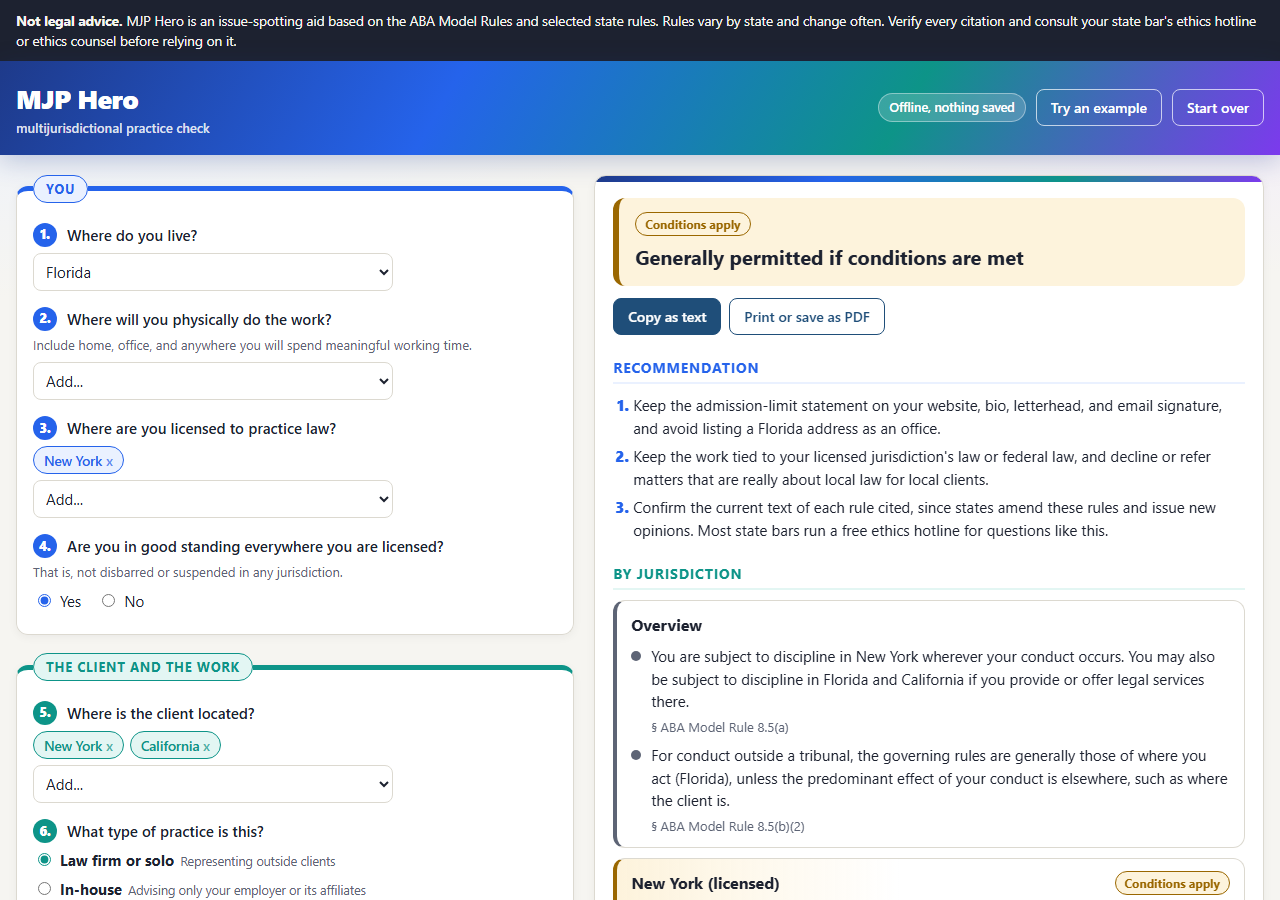
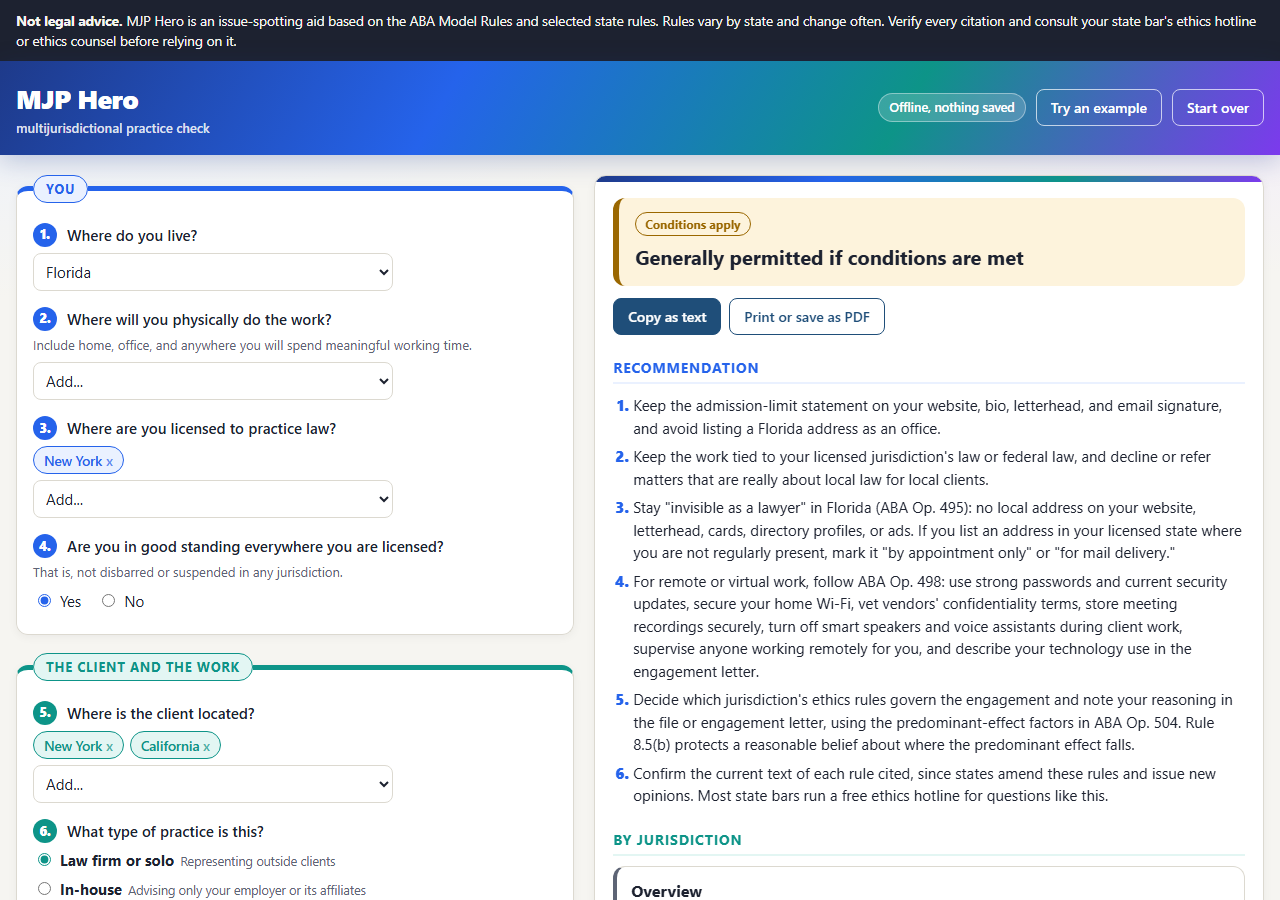
Incorporate ABA and state ethics opinions on multijurisdictional practice
ABA: fuller Op. 495 analysis ("invisible as a lawyer", "by appointment
only" address tip), Op. 498 remote-work safeguards, Op. 504 predominant-
effect factors for Rule 8.5(b), all with source links and matching
recommendations.

States: remote-work guidance for 17 more states (27 total). Missouri
Informal Ops. 2024-02 and 2024-03 reject Op. 495, so remote work from
Missouri and remote in-house work for Missouri companies are flagged
as likely problems. Minnesota and Arizona client-notice requirements,
Ohio disclosure rule, Colorado firm caveat, Rhode Island in-person
limit, Washington resident-agent rule, and licensing-state guidance
(Illinois, Pennsylvania, Hawaii, Washington) on practicing their law
from elsewhere.

Changed region(s): [[0.4688, 0.56, 0.9688, 1.0]]

diff --git a/js/authorities.js b/js/authorities.js
@@ -78,15 +78,23 @@
     },
     "Op 495": {
       cite: "ABA Formal Op. 495 (2020), Lawyers Working Remotely",
-      text: "A lawyer may practice the law of a jurisdiction where the lawyer is licensed while physically located in a jurisdiction where the lawyer is not licensed, if the local jurisdiction has not said otherwise and the lawyer does not hold out as admitted there, advertise or offer services there, or establish a local office."
+      text: "A lawyer may practice the law the lawyer's licensing jurisdiction authorizes (including temporary practice and other law permitted by Rule 5.5(c) and (d)) while physically in a jurisdiction where the lawyer is not licensed, if that jurisdiction has not determined otherwise and the lawyer is \"for all intents and purposes invisible as a lawyer\" there: no local address on websites, letterhead, business cards, or advertising; no holding out as locally admitted; and no legal services for matters subject to the local jurisdiction. The opinion suggests listing the licensing-jurisdiction address with a note such as \"by appointment only\" or \"for mail delivery.\"",
+      url: "https://www.lawnext.com/wp-content/uploads/2021/09/aba-formal-opinion-495.pdf"
     },
     "Op 498": {
       cite: "ABA Formal Op. 498 (2021), Virtual Practice",
-      text: "Virtual practice is permitted but carries duties of competence, confidentiality, and supervision, and does not relax the jurisdictional limits of Rule 5.5."
+      text: "Virtual practice is permitted but does not relax Rule 5.5. Lawyers must keep up with technology risks (Rule 1.1), protect confidential information (Rule 1.6) with strong passwords, security updates, secure Wi-Fi, vetted vendors, secure storage of recordings, and smart speakers or assistants disabled during client work, and supervise lawyers and staff working remotely (Rules 5.1, 5.3). It suggests discussing technology use in the engagement letter.",
+      url: "https://www.hklaw.com/en/insights/publications/2021/03/aba-offers-general-guidance-for-virtual-law-practices"
+    },
+    "Op 504": {
+      cite: "ABA Formal Op. 504 (2023), Choice of Rule",
+      text: "Explains Rule 8.5(b). Before a tribunal, the tribunal's rules apply. Otherwise, look to where the conduct's predominant effect is, considering the client's location, where the transaction occurs, which law governs, the lawyer's principal office and admission, where other parties are, and which jurisdiction has the greatest interest. Rule 8.5(b)'s safe harbor protects a lawyer who reasonably relies on one jurisdiction as the predominant-effect jurisdiction.",
+      url: "https://lalegalethics.org/aba-issues-opinion-on-model-rule-8-5-choice-of-law/"
     },
     "Op 88-356": {
       cite: "ABA Formal Op. 88-356 (1988), Temporary Lawyers",
-      text: "Lawyers placed with firms or clients through a placement agency raise conflict-of-interest, confidentiality, and fee-arrangement questions. Whether the lawyer is associated with the firm or client depends on a functional analysis of the relationship."
+      text: "Lawyers placed with firms or clients through a placement agency raise conflict-of-interest, confidentiality, and fee-arrangement questions. Whether the lawyer is associated with the firm or client depends on a functional analysis of the relationship.",
+      url: "https://www.americanbar.org/products/ecd/chapter/219921/"
     },
     "Sperry": {
       cite: "Sperry v. Florida ex rel. Florida Bar, 373 U.S. 379 (1963)",
@@ -105,12 +113,21 @@
    *   remote    guidance on remote work from within the state for out-of-state matters
    *             (level: "caution" when the guidance is narrower than ABA Op. 495)
    *   residency requirements on licensed lawyers who live elsewhere
+   *   away     the state's own guidance that its licensed lawyers may practice its law from elsewhere
+   *   virtualInHouse  authority requiring a local license for in-house lawyers who serve a company
+   *            in this state remotely from another state
+   *   clientNotice    true if the state requires telling clients the lawyer is not licensed there
+   *
+   * remote.level: "ok" (default), "caution" (narrower than Op. 495), or "risk" (state says remote
+   * practice from the state is unauthorized).
    *   notes     extra warnings (strings)
    *
    * v(...) marks a citation confirmed against the source URL on the date in CHECKED.
    * u(...) marks one not yet confirmed; the UI shows a "verify" tag on these.
    */
   var CHECKED = "2026-09-26";
+  // Mass. Board of Bar Overseers survey of remote-practice rules in New England states (updated Mar. 2024).
+  var MASS_BBO = "https://bbopublic.massbbo.org/web/f/(UpdatedMarch%202024)%20What%20you%20should%20know%20about%20Cross%20Border%20Remote%20Practice.pdf";
   function v(cite, text, source, extra) {
     return Object.assign({ cite: cite, text: text || "", verified: true, checked: CHECKED, url: source || "" }, extra || {});
   }
@@ -153,6 +170,7 @@
     },
     IL: {
       rule: v("Ill. R. Prof'l Conduct 5.5", "", "https://www.isba.org/ethics/irpc/rule55"),
+      away: v("ISBA Advisory Op. 22-03 (2022)", "Illinois-licensed lawyers may practice Illinois law remotely from a jurisdiction where they are not licensed, if that jurisdiction does not prohibit it.", "https://www.isba.org/sites/default/files/ethicsopinions/Advisory%20Opinion%2022-03.pdf"),
       inHouse: v("Ill. S. Ct. R. 716 (amended eff. Jan. 1, 2026)", "Limited license for house counsel employed exclusively by a single entity and its affiliates.", "https://www.ilbaradmissions.org/appinfo.action?id=4"),
       phv: v("Ill. S. Ct. R. 707", "An out-of-state attorney may appear in a particular Illinois proceeding after an Illinois attorney files an appearance and a verified statement is filed with the ARDC.", "https://registration.iardc.org/attyreg/Registration/regdept/popup_rule707overview.aspx")
     },
@@ -169,6 +187,7 @@
     },
     PA: {
       rule: u("Pa. R. Prof'l Conduct 5.5"),
+      away: v("Pa. Bar Ass'n & Phila. Bar Ass'n Joint Formal Op. 2021-100", "Pennsylvania-licensed lawyers may practice Pennsylvania law remotely from another jurisdiction if they take appropriate steps, including not holding out a local office, and the other jurisdiction does not prohibit it.", "https://www.lawnext.com/2021/03/the-ethics-of-working-from-outside-your-state-pa-bars-adopt-aba-rule.html"),
       phv: v("Pa. Bar Admission R. 301", "Pro hac vice requires a Pennsylvania attorney who agrees to act as attorney of record.", "https://www.pabarexam.org/bar_admission_rules/301.htm"),
       inHouse: v("Pa. Bar Admission R. 302", "Limited In-House Corporate Counsel License required for in-house lawyers working in Pennsylvania on more than a temporary basis or with an office or systematic presence there.", "https://www.pabarexam.org/bar_admission_rules/302.htm")
     },
@@ -182,6 +201,65 @@
       phv: v("Va. Sup. Ct. R. 1A:4", "Out-of-state lawyers may apply to appear pro hac vice in a particular case before a Virginia court, board, or agency.", "https://www.vacourts.gov/static/courts/scv/forms/pro_hac_vice_rule_inst.pdf"),
       inHouse: v("Va. Sup. Ct. R. 1A:5", "Corporate counsel must be a Virginia State Bar member, hold a Corporate Counsel Certificate, or register under Part II of the rule.", "https://barexam.virginia.gov/vcc-rule1A-5"),
       remote: v("Va. Legal Ethics Op. 1896 (2021)", "A lawyer not licensed in Virginia may work from Virginia, even continuously, if the practice is limited to federal law or the law of the lawyer's licensing jurisdiction, with disclosure of the lack of a Virginia license where needed.", "https://www.vacourts.gov/static/courts/scv/amendments/leo_1896.pdf")
+    },
+    // Jurisdictions below have remote-work guidance only; the rest of their rules fall back to the ABA baseline.
+    MO: {
+      inHouse: v("Mo. S. Ct. R. 8.105", "Limited license for lawyers not admitted in Missouri who serve their employer or its affiliates.", "https://mo-legal-ethics.org/informal-opinion/2024-02/"),
+      remote: v("Mo. Informal Advisory Op. 2024-03 (2024)", "A lawyer licensed elsewhere who lives in Missouri and works from a Missouri home office for an out-of-state firm is establishing a systematic and continuous presence and must seek Missouri admission.", "https://mo-legal-ethics.org/informal-opinion/2024-03/", { level: "risk" }),
+      virtualInHouse: v("Mo. Informal Advisory Op. 2024-02 (2024)", "A lawyer licensed elsewhere who works virtually from another state for a corporation located in Missouri must seek Missouri admission (for example, a Rule 8.105 limited license), because presence can be systematic and continuous without being physically in Missouri.", "https://mo-legal-ethics.org/informal-opinion/2024-02/")
+    },
+    CO: {
+      remote: v("Colo. RPC 5.5, cmt. [1] (amended Feb. 2024); C.R.C.P. 205.1", "Lawyers physically in Colorado who provide services under another jurisdiction's authority do not violate Rule 5.5 if they do not solicit or accept clients in Colorado for services performed in Colorado and do not hold out as authorized in Colorado. Colorado regulators caution that working for a Colorado law firm with a Colorado office likely requires a Colorado license unless the practice is exclusively federal or tribal law.", "https://cl.cobar.org/departments/practicing-from-a-remote-jurisdiction/")
+    },
+    OH: {
+      remote: v("Ohio Prof. Cond. R. 5.5(d)(4) (eff. Sept. 1, 2021)", "Lawyers admitted elsewhere may practice their licensing jurisdiction's law remotely from Ohio if they do not solicit Ohio clients, appear in Ohio courts, or hold out as Ohio-admitted. If any Ohio location appears on letterhead, cards, websites, advertising, fee agreements, or signage, they must affirmatively state they are not admitted in Ohio.", "https://www.oblic.com/resources/oblic-news/09/07/2021/rule-5-5-amendments-allow-remote-practice/")
+    },
+    NC: {
+      remote: v("N.C. RPC 5.5; N.C. State Bar, \"Home is Where the Heart Is\" (2021)", "Lawyers licensed elsewhere may work remotely from North Carolina for their own jurisdiction's clients if they do not suggest they are licensed in North Carolina and protect client confidentiality.", "https://www.ncbar.gov/for-lawyers/ethics/ethics-articles/home-is-where-the-heart-is/")
+    },
+    MN: {
+      remote: v("Minn. RPC 5.5(d)", "Lawyers admitted elsewhere may provide services in Minnesota that exclusively involve federal law, tribal law, or the law of a jurisdiction where they are licensed, but must advise each client that they are not licensed in Minnesota.", "https://www.revisor.mn.gov/court_rules/pr/subtype/cond/id/5.5/"),
+      clientNotice: true
+    },
+    AZ: {
+      remote: u("Ariz. ER 5.5(d)", "Lawyers admitted elsewhere may provide services in Arizona that exclusively involve federal law, another jurisdiction's law, or tribal law, but must advise clients they are not admitted in Arizona and obtain informed consent."),
+      clientNotice: true
+    },
+    CT: {
+      remote: v("Conn. RPC 5.5(f); Conn. Practice Book § 2-44A(c) (eff. Jan. 1, 2023)", "Remote practice from Connecticut that is authorized by a jurisdiction where the lawyer is admitted is not the practice of law in Connecticut. It does not allow holding out as authorized in Connecticut or serving Connecticut clients.", "https://www.jud.ct.gov/lawjournal/Docs/Misc/2022/29/pblj_8402.pdf")
+    },
+    NH: {
+      remote: v("N.H. RPC 5.5(d) & Ethics Committee cmt. 3", "Lawyers licensed elsewhere who do not practice New Hampshire law need not obtain a New Hampshire license merely because they are physically in New Hampshire, if they do not hold out as admitted there.", "https://www.nhbar.org/working-remotely-under-nh-rule-5-5/")
+    },
+    VT: {
+      remote: v("Vt. RPC 5.5, cmt. [22]", "Vermont added a comment expressly adopting ABA Op. 495 for remote practice from Vermont.", MASS_BBO)
+    },
+    RI: {
+      remote: v("R.I. RPC 5.5, cmt. [4]", "Lawyers not licensed in Rhode Island may work from a Rhode Island home under conditions, but may not hold in-person meetings in Rhode Island with clients or third parties unless another exception applies.", MASS_BBO)
+    },
+    ME: {
+      remote: v("Me. Prof. Ethics Comm'n Op. 189 (2005)", "A lawyer who lives in Maine and works from home for an out-of-state firm and out-of-state clients, without a Maine office or holding out, is not engaged in unauthorized practice.", MASS_BBO)
+    },
+    UT: {
+      remote: v("Utah Ethics Advisory Op. 19-03 (2019)", "An out-of-state lawyer may represent clients from the licensing state from a private home in Utah, but must not establish a public office in Utah or solicit Utah business.", "https://www.utahbar.org/ethics-opinions/19-03/")
+    },
+    SC: {
+      remote: v("S.C. RPC 5.5, cmt. [4] (amended Mar. 15, 2023)", "Remote work in South Carolina does not establish an office or systematic presence if the lawyer's services are limited to those authorized by a jurisdiction where the lawyer is admitted and the lawyer does not state, imply, or hold out that the lawyer is a South Carolina lawyer.", "https://www.sccourts.org/opinions-orders/court-orders/order-detail/?order=2023-03-15-02")
+    },
+    HI: {
+      remote: v("Haw. RPC 5.5, cmt. [3] (eff. July 1, 2022)", "Lawyers licensed elsewhere may remotely practice that jurisdiction's law while in Hawaii if they do not hold out as licensed in Hawaii, advertise a Hawaii office, provide or offer Hawaii legal services, or do anything connected to practice in Hawaii beyond being physically present.", "https://www.courts.state.hi.us/wp-content/uploads/2022/03/2022_hrpc5.5am_ada.pdf"),
+      away: v("Haw. RPC 5.5, cmt. [3]", "Hawaii-licensed lawyers may practice remotely from outside Hawaii if the jurisdiction where they are physically present does not prohibit it.", "https://www.courts.state.hi.us/wp-content/uploads/2022/03/2022_hrpc5.5am_ada.pdf")
+    },
+    MI: {
+      remote: v("Mich. Ethics Op. RI-382 (2021)", "An out-of-state lawyer physically located in Michigan but practicing exclusively the law of a jurisdiction where the lawyer is licensed does not violate Michigan Rule 5.5.", "https://www.michbar.org/opinions/ethics/numbered_opinions/RI-382")
+    },
+    WI: {
+      remote: v("Wis. Formal Ethics Op. EF-21-02 (2021)", "Wisconsin's rule does not prohibit an out-of-state lawyer from representing clients of the licensing state from a private location in Wisconsin.", "https://www.wisbar.org/NewsPublications/WisconsinLawyer/Pages/Article.aspx?ArticleID=28330")
+    },
+    WA: {
+      remote: v("WSBA Advisory Op. 201601 (2016, amended 2022)", "Out-of-state lawyers may generally practice remotely from Washington if they limit their work to their licensing jurisdictions and do not hold out as available to practice in Washington.", "https://wsba.org/docs/default-source/legal-community/committees/committee-on-professional-ethics/201601-regarding-updated-opinion-on-remote-and-virtual-law-practice-.pdf?sfvrsn=180113f1_4"),
+      residency: v("WSBA Advisory Op. 201601 (2016, amended 2022)", "Washington does not require a physical office, but an active Washington lawyer who lives outside Washington must file the name and street address of a resident agent in Washington with the WSBA.", "https://wsba.org/docs/default-source/legal-community/committees/committee-on-professional-ethics/201601-regarding-updated-opinion-on-remote-and-virtual-law-practice-.pdf?sfvrsn=180113f1_4"),
+      away: v("WSBA Advisory Op. 201601 (2016, amended 2022)", "Washington-licensed lawyers may practice from a home office in another state, but should confirm their presence there is not unauthorized practice under that state's rules.", "https://wsba.org/docs/default-source/legal-community/committees/committee-on-professional-ethics/201601-regarding-updated-opinion-on-remote-and-virtual-law-practice-.pdf?sfvrsn=180113f1_4")
     }
   };
 

diff --git a/js/engine.js b/js/engine.js
@@ -40,7 +40,7 @@
     return out;
   }
 
-  function aba(key) { return { cite: A.ABA[key].cite, text: A.ABA[key].text, source: "aba" }; }
+  function aba(key) { return { cite: A.ABA[key].cite, text: A.ABA[key].text, url: A.ABA[key].url, source: "aba" }; }
   function st(code, field) {
     var s = A.STATES[code];
     if (!s || !s[field]) return null;
@@ -105,7 +105,7 @@
     if (inp.proceeding === "court" && inp.proceedingIn) {
       ov.push(f("info", "Conduct connected with the court matter is generally governed by the rules of the jurisdiction where the tribunal sits (" + J.nameOf(inp.proceedingIn) + ").", cites(aba("8.5(b)(1)"))));
     } else if (usPhys.length) {
-      ov.push(f("info", "For conduct outside a tribunal, the governing rules are generally those of where you act (" + list(usPhys) + "), unless the predominant effect of your conduct is elsewhere, such as where the client is.", cites(aba("8.5(b)(2)"))));
+      ov.push(f("info", "For conduct outside a tribunal, the governing rules are generally those of where you act (" + list(usPhys) + "), unless the predominant effect of your conduct is elsewhere. ABA Op. 504 lists factors for finding the predominant effect: where the client is, where the transaction occurs, which law governs, your principal office and admissions, where other parties are, and which jurisdiction has the greatest interest.", cites(aba("8.5(b)(2)"), aba("Op 504"))));
     }
     var foreignLaw = lawStates.filter(function (c) { return !isLic(c); });
     if (foreignLaw.length) {
@@ -134,6 +134,11 @@
       var touched = usPhys.indexOf(code) >= 0 || clients.indexOf(code) >= 0 || law.indexOf(code) >= 0 ||
         inp.proceedingIn === code;
       if (touched) fs.push(f("ok", "You are licensed here, so Rule 5.5 does not limit your practice in " + J.nameOf(code) + ".", []));
+      var away = st(code, "away");
+      var outside = usPhys.filter(function (c) { return !isLic(c); }).concat(phys.indexOf("FOREIGN") >= 0 ? ["FOREIGN"] : []);
+      if (away && outside.length) {
+        fs.push(f("ok", "On working from " + list(outside) + ", " + J.nameOf(code) + "'s own guidance agrees: " + away.text, cites(away)));
+      }
       var res = st(code, "residency");
       if (res && inp.residence && inp.residence !== code) {
         fs.push(f("caution", "You are licensed in " + J.nameOf(code) + " but live elsewhere. " + res.text, cites(res)));
@@ -164,7 +169,7 @@
       if (rule) {
         fs.push(f("info", name + "'s adopted rule governs here, not the Model Rule." + (rule.text ? " " + rule.text : ""), cites(rule, st(code, "upl"))));
       } else {
-        fs.push(f("info", "This tool has no " + name + "-specific data yet. " + name + "'s adopted version of Rule 5.5 and its court rules may differ from the ABA Model Rule used below.", cites(aba("5.5(a)"))));
+        fs.push(f("info", (A.STATES[code] ? "This tool covers " + name + "'s remote-work and related guidance but not its full rule set. " : "This tool has no " + name + "-specific data yet. ") + name + "'s adopted version of Rule 5.5 and its court rules may differ from the ABA Model Rule used below.", cites(aba("5.5(a)"))));
       }
 
       // Holding out
@@ -200,12 +205,19 @@
         } else if (!isClient && !lawHere && !held) {
           var remote = st(code, "remote");
           var remoteNarrow = remote && remote.level === "caution";
+          if (remote && remote.level === "risk") {
+            fs.push(f("risk", name + " has rejected the ABA Op. 495 approach. Working from " + name + " on an ongoing basis, even only on your licensed jurisdiction's matters, requires " + name + " admission unless another exception applies. " + remote.text,
+              cites(remote, aba("Op 495"), aba("5.5(b)(1)"))));
+          } else
           fs.push(f(remote && !remoteNarrow ? "ok" : "caution",
             "Working remotely from " + name + " on matters for your licensed jurisdiction, with no local office, advertising, or holding out, is generally permitted under ABA Op. 495" +
             (remoteNarrow ? ", but " + name + "'s own guidance is narrower. Check its conditions before relying on it." :
               remote ? ", and " + name + " has issued consistent guidance." :
               ". This tool has no " + name + "-specific remote-work authority, so confirm " + name + " has not taken a narrower view."),
             cites(aba("Op 495"), aba("Op 498"), aba("5.5(b)(1)"), remote)));
+          if (A.STATES[code] && A.STATES[code].clientNotice && !(remote && remote.level === "risk")) {
+            fs.push(f("caution", name + " requires you to tell each client that you are not licensed in " + name + ".", cites(remote)));
+          }
         } else if (inp.duration === "ongoing") {
           fs.push(f("risk", "Working from " + name + " on an ongoing basis for " + (isClient ? name + " clients" : "") + (isClient && lawHere ? " and " : "") + (lawHere ? name + " law matters" : "") +
             " is the systematic and continuous local presence Rule 5.5(b)(1) prohibits, and it falls outside ABA Op. 495.",
@@ -217,7 +229,10 @@
 
       // Not physically here, but the client or the law is here
       if (!present && (isClient || lawHere)) {
-        if (pt === "inhouse") {
+        var vih = st(code, "virtualInHouse");
+        if (pt === "inhouse" && vih && isClient) {
+          fs.push(f("risk", name + " requires a license even for in-house lawyers who serve a " + name + " company remotely from another state. " + vih.text, cites(vih, st(code, "inHouse"), aba("5.5 cmt4"))));
+        } else if (pt === "inhouse") {
           fs.push(f("ok", "Advising your employer or its affiliates located in " + name + " is within the in-house exception.", cites(aba("5.5(d)(1)"))));
         } else if (pt === "federal" && !lawHere) {
           fs.push(f("ok", "Federally authorized practice for a client in " + name + " is generally permitted.", cites(aba("5.5(d)(2)"))));
@@ -325,8 +340,21 @@
     if (inp.practiceType === "inhouse" && unlicPhys.length) {
       recs.push("Check in-house registration requirements and deadlines in " + list(unlicPhys) + "; some states impose deadlines measured from when you start working there.");
     }
+    var invisibleOk = unlicPhys.filter(function (c) { var r = st(c, "remote"); return !(r && r.level === "risk"); });
     if (unlicPhys.length && (inp.practiceType === "private" || inp.practiceType === "fractional")) {
       recs.push("Keep the work tied to your licensed jurisdiction's law or federal law, and decline or refer matters that are really about local law for local clients.");
+      if (invisibleOk.length) recs.push("Stay \"invisible as a lawyer\" in " + list(invisibleOk) + " (ABA Op. 495): no local address on your website, letterhead, cards, directory profiles, or ads. If you list an address in your licensed state where you are not regularly present, mark it \"by appointment only\" or \"for mail delivery.\"");
+    }
+    var noticeStates = unlicPhys.filter(function (c) { return A.STATES[c] && A.STATES[c].clientNotice; });
+    if (noticeStates.length) {
+      recs.push("Tell each client in writing, for example in your engagement letter, that you are not licensed in " + list(noticeStates) + ".");
+    }
+    var remoteWork = unlicPhys.length || clients.some(function (c) { return c !== "FOREIGN" && usPhys.indexOf(c) < 0; });
+    if (remoteWork) {
+      recs.push("For remote or virtual work, follow ABA Op. 498: use strong passwords and current security updates, secure your home Wi-Fi, vet vendors' confidentiality terms, store meeting recordings securely, turn off smart speakers and voice assistants during client work, supervise anyone working remotely for you, and describe your technology use in the engagement letter.");
+    }
+    if (targets.length || inp.licensed.length > 1) {
+      recs.push("Decide which jurisdiction's ethics rules govern the engagement and note your reasoning in the file or engagement letter, using the predominant-effect factors in ABA Op. 504. Rule 8.5(b) protects a reasonable belief about where the predominant effect falls.");
     }
     recs.push("Confirm the current text of each rule cited, since states amend these rules and issue new opinions. Most state bars run a free ethics hotline for questions like this.");
 

diff --git a/test/engine.test.js b/test/engine.test.js
@@ -29,8 +29,8 @@ test("remote from Florida on NY matters is ok with Florida authority", function 
 });
 
 test("remote from a state without data is caution", function () {
-  var r = analyze(withBase({ residence: "CO", workLocations: ["CO"] }));
-  assert.strictEqual(section(r, "CO").level, "caution");
+  var r = analyze(withBase({ residence: "KY", workLocations: ["KY"] }));
+  assert.strictEqual(section(r, "KY").level, "caution");
 });
 
 test("office in unlicensed state is risk", function () {
@@ -170,6 +170,50 @@ test("fractional counsel is analyzed as outside counsel, not in-house", function
   assert.ok(cited(r, "88-356"));
   var inhouse = analyze(withBase({ practiceType: "inhouse", residence: "FL", workLocations: ["FL"], clientLocations: ["FL"], matterLaw: ["FL"] }));
   assert.strictEqual(section(inhouse, "FL").level, "caution");
+});
+
+function recs(r, text) { return r.recommendations.some(function (x) { return x.indexOf(text) >= 0; }); }
+
+test("Missouri rejects Op. 495: remote work from Missouri is risk", function () {
+  var r = analyze(withBase({ residence: "MO", workLocations: ["MO"] }));
+  assert.strictEqual(section(r, "MO").level, "risk");
+  assert.ok(cited(r, "2024-03"));
+});
+
+test("Missouri: in-house lawyer serving a Missouri company remotely is risk", function () {
+  var r = analyze(withBase({ practiceType: "inhouse", clientLocations: ["MO"] }));
+  assert.strictEqual(section(r, "MO").level, "risk");
+  assert.ok(cited(r, "2024-02"));
+});
+
+test("Minnesota remote work is ok but requires client notice", function () {
+  var r = analyze(withBase({ residence: "MN", workLocations: ["MN"] }));
+  assert.strictEqual(section(r, "MN").level, "caution");
+  assert.ok(recs(r, "not licensed in Minnesota"));
+});
+
+test("licensing state's own remote guidance appears when working elsewhere", function () {
+  var r = analyze(Object.assign({}, base, { licensed: ["IL"], clientLocations: ["IL"], matterLaw: ["IL"], residence: "UT", workLocations: ["UT"] }));
+  assert.ok(cited(r, "ISBA Advisory Op. 22-03"));
+  assert.strictEqual(section(r, "UT").level, "ok");
+});
+
+test("Washington lawyer living elsewhere gets resident-agent flag", function () {
+  var r = analyze(Object.assign({}, base, { licensed: ["WA"], clientLocations: ["WA"], matterLaw: ["WA"], residence: "OR", workLocations: ["OR"] }));
+  assert.ok(section(r, "WA").findings.some(function (x) { return x.text.indexOf("resident agent") >= 0; }));
+});
+
+test("Op. 495, 498, and 504 recommendations appear for remote work", function () {
+  var r = analyze(withBase({ residence: "FL", workLocations: ["FL"] }));
+  assert.ok(recs(r, "by appointment only"));
+  assert.ok(recs(r, "ABA Op. 498"));
+  assert.ok(recs(r, "ABA Op. 504"));
+  assert.ok(cited(r, "Formal Op. 504"));
+});
+
+test("all-in-one-state practice gets no remote recommendations", function () {
+  var r = analyze(base);
+  assert.ok(!recs(r, "ABA Op. 498") && !recs(r, "ABA Op. 504"));
 });
 
 var failed = 0;

diff --git a/js/app.js b/js/app.js
@@ -110,6 +110,7 @@
 
   // Tag for a state citation: "verify" if unchecked, or a link to the source it was checked against.
   function stateTag(c) {
+    if (c.source === "aba" && c.url) return el("a", { class: "src", href: c.url, target: "_blank", rel: "noopener noreferrer", text: "source" });
     if (c.source !== "state") return null;
     if (c.verified === false) return el("span", { class: "verify", text: "verify" });
     if (c.url) return el("a", { class: "src", href: c.url, target: "_blank", rel: "noopener noreferrer", title: "Checked " + (c.checked || ""), text: "source" });

diff --git a/assets/social/social.html b/assets/social/social.html
@@ -48,7 +48,7 @@
     <div class="badges">
       <span class="badge">ABA Model Rules 5.5 &amp; 8.5</span>
       <span class="badge">ABA Op. 495 remote work</span>
-      <span class="badge">10 states, sourced</span>
+      <span class="badge">27 states, sourced</span>
       <span class="badge">Offline, nothing saved</span>
     </div>
   </div>

diff --git a/README.md b/README.md
@@ -40,7 +40,10 @@
 - Model Rule 5.5: local office and systematic presence, holding out, the four temporary-practice safe harbors in 5.5(c), and in-house and federal practice under 5.5(d)
 - Model Rule 8.5: disciplinary authority and choice of law
 - Model Rules 7.1 (communications) and 1.1 (competence)
-- ABA Formal Op. 495 (lawyers working remotely) and Op. 498 (virtual practice)
+- ABA Formal Op. 495 (lawyers working remotely): the "invisible as a lawyer" test, no local address, and listing your licensed-state address "by appointment only" or "for mail delivery"
+- ABA Formal Op. 498 (virtual practice): confidentiality, technology, and supervision steps for remote work
+- ABA Formal Op. 504 (choice of rule): predominant-effect factors under Rule 8.5(b)
+- ABA Formal Op. 88-356 (temporary lawyers): conflicts and fee arrangements for staffing-agency placements
 - *Sperry v. Florida*, 373 U.S. 379 (1963), for federally authorized practice
 
 **State-specific rules for 10 jurisdictions**
@@ -51,16 +54,38 @@
 | New York | 22 NYCRR 523.5 | Part 522 | Judiciary Law § 470 office rule for nonresident NY lawyers; Part 523 |
 | Texas | Rule 5.05(d) (2024) | 5.05(c), no registration | Pro hac vice (Rule XIX) |
 | Florida | 318 So. 3d 538; Rule 4-5.5 cmt. | Chapter 17 | Three pro hac vice appearances per year |
-| Illinois | None specific | S. Ct. R. 716 | Rule 707 |
+| Illinois | None specific | S. Ct. R. 716 | Rule 707; ISBA Op. 22-03 (practicing Illinois law from elsewhere) |
 | D.C. | Rule 49(c)(13), occasional only | | Rule 49 |
 | New Jersey | Op. 59 / Op. 742 | R. 1:27-2 | RPC 5.5(b)(3)(iv) |
-| Pennsylvania | None specific | B.A.R. 302 | B.A.R. 301 |
+| Pennsylvania | None specific | B.A.R. 302 | B.A.R. 301; Joint Op. 2021-100 (practicing Pennsylvania law from elsewhere) |
 | Massachusetts | Rule 5.5 cmt. [4A] (2024) | S.J.C. Rule 4:02(9) | |
 | Virginia | LEO 1896 | Rule 1A:5 | Rule 1A:4 |
 
+**Remote-work guidance for 17 more states**
+
+| State | Authority | Position |
+| --- | --- | --- |
+| Missouri | Informal Ops. 2024-02, 2024-03 | **Rejects Op. 495.** Working from a Missouri home requires Missouri admission, and so does serving a Missouri company in-house from another state |
+| Arizona | ER 5.5(d) | Permitted for federal, tribal, or licensed-state law; client notice and informed consent required |
+| Colorado | RPC 5.5 cmt. [1] (2024); C.R.C.P. 205.1 | Permitted; working for a Colorado firm with a Colorado office likely needs a Colorado license |
+| Connecticut | RPC 5.5(f) (2023) | Permitted; no Connecticut clients |
+| Hawaii | RPC 5.5 cmt. [3] (2022) | Permitted |
+| Maine | Ethics Op. 189 (2005) | Permitted |
+| Michigan | Ethics Op. RI-382 (2021) | Permitted |
+| Minnesota | RPC 5.5(d) | Permitted; must tell clients you are not licensed in Minnesota |
+| New Hampshire | RPC 5.5(d) & cmt. 3 | Permitted |
+| North Carolina | RPC 5.5; State Bar guidance (2021) | Permitted |
+| Ohio | Prof. Cond. R. 5.5(d)(4) (2021) | Permitted; materials showing an Ohio location must say you are not admitted in Ohio |
+| Rhode Island | RPC 5.5 cmt. [4] | Permitted; no in-person client meetings in Rhode Island |
+| South Carolina | RPC 5.5 cmt. [4] (2023) | Permitted |
+| Utah | Ethics Op. 19-03 (2019) | Permitted; no public office or soliciting Utah business |
+| Vermont | RPC 5.5 cmt. [22] | Permitted |
+| Washington | WSBA Advisory Op. 201601 | Permitted; Washington lawyers living elsewhere must designate a resident agent |
+| Wisconsin | Formal Op. EF-21-02 (2021) | Permitted |
+
 Other jurisdictions fall back to the ABA Model Rule with a note that the local version may differ.
 
-State citations were checked against official or reliable sources on 2026-09-26. A few well-known citations that were not checked show a **verify** tag in the app.
+State citations were checked against official or reliable sources on 2026-09-26 and 2026-10-01. A few well-known citations that were not checked show a **verify** tag in the app.
 
 ## Built to run anywhere, including locked-down work environments
 
